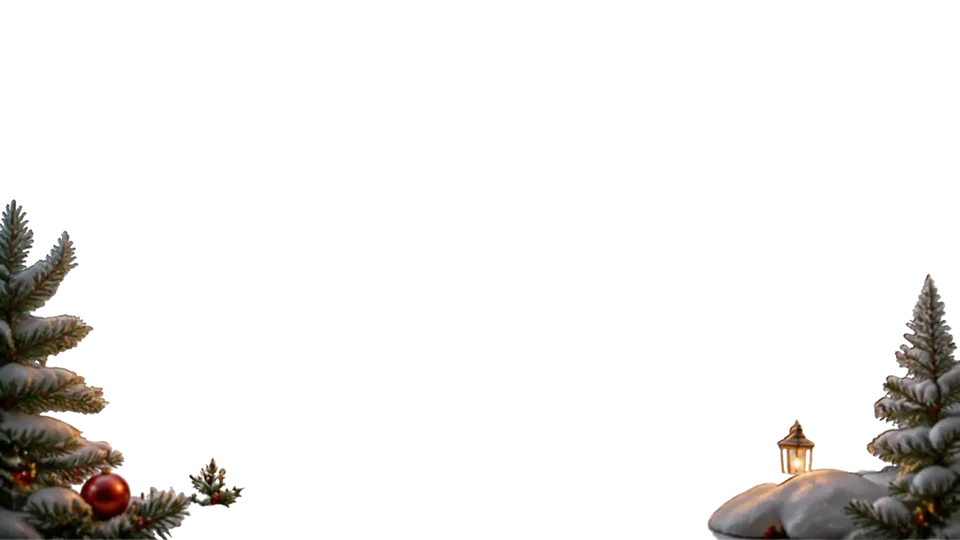
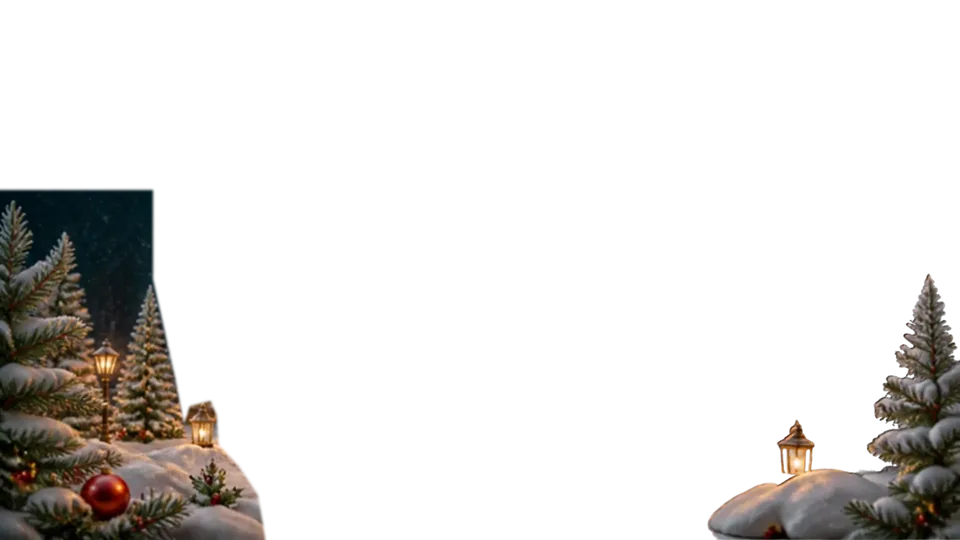
Julekontor: van emerges at the marked line, sign lettering, new corners and ornaments
- foreground mask follows the line the user drew (trees, lantern, small fir)
- shop sign shows the red Julekontor lettering from the logo
- new holly corners generated in Canva after the logo's corners
- tree ornaments and calendar icons are Canva images instead of drawn icons

Claude-Session: https://claude.ai/code/session_01GyBEJ1bpVKmuYRXiFEBJUP

Changed region(s): [[0.0, 0.3259, 0.2812, 1.0], [0.0625, 0.8889, 0.0938, 0.9185]]

diff --git a/julekontor-web/public/index.html b/julekontor-web/public/index.html
@@ -57,7 +57,7 @@ a { color: inherit; }
 
 /* the logo's holly corners on framed boards */
 .board { position: relative; background: var(--card); border-radius: 18px; padding: clamp(26px, 4vw, 54px) clamp(16px, 3.5vw, 48px); box-shadow: 0 0 0 1px var(--line), 0 0 0 7px var(--card), 0 0 0 8px var(--gold-soft), 0 30px 60px -36px rgba(80,40,10,.5); }
-.board > .corner { position: absolute; width: clamp(96px, 14vw, 170px); aspect-ratio: 375 / 360; background-size: contain; background-repeat: no-repeat; pointer-events: none; z-index: 1; filter: drop-shadow(0 4px 6px rgba(0,0,0,.18)); }
+.board > .corner { position: absolute; width: clamp(120px, 17vw, 230px); aspect-ratio: 520 / 488; background-size: contain; background-repeat: no-repeat; pointer-events: none; z-index: 1; filter: drop-shadow(0 4px 6px rgba(0,0,0,.2)); }
 .corner.tl { left: -14px; top: -14px; background-image: url("img/c/corner-tl.webp"); }
 .corner.tr { right: -14px; top: -14px; background-image: url("img/c/corner-tr.webp"); }
 .corner.bl { left: -14px; bottom: -14px; background-image: url("img/c/corner-bl.webp"); }
@@ -333,6 +333,13 @@ body { background: var(--night-1); color: var(--ink);
 .stage > img.bg { position: absolute; inset: 0; width: 100%; height: 100%; display: block; user-select: none; }
 .stage canvas { position: absolute; inset: 0; width: 100%; height: 100%; pointer-events: none; z-index: 3; }
 .stage::after { content: ""; position: absolute; inset: 0; z-index: 2; pointer-events: none; background: linear-gradient(180deg, rgba(8,18,16,.75) 0, rgba(8,18,16,.25) 22%, transparent 40%), radial-gradient(ellipse at 50% 120%, transparent 60%, rgba(0,0,0,.35)); }
+.stage > img.shopsign { position: absolute; left: 61.6%; top: 46.4%; width: 8.6%; height: 4.4%; object-fit: contain; z-index: 1; pointer-events: none; filter: drop-shadow(0 0 1px rgba(255,236,200,.95)) drop-shadow(0 0 .4cqw rgba(255,205,120,.55)); }
+.door .back img { width: 58%; height: 70%; object-fit: contain; display: block; }
+.dlg .card .art img { width: 110px; height: 120px; object-fit: contain; display: block; }
+.tree .placed img { width: 100%; height: 100%; object-fit: contain; display: block; filter: drop-shadow(0 4px 3px rgba(0,0,0,.35)); pointer-events: none; }
+.tray .items img { width: 100%; height: 100%; object-fit: contain; display: block; pointer-events: none; }
+.dragging img { width: 100%; height: 100%; object-fit: contain; display: block; }
+.tree .placed { width: 9%; aspect-ratio: 3 / 4; margin: -6% 0 0 -4.5%; }
 .stage > img.fg { position: absolute; inset: 0; width: 100%; height: 100%; display: block; z-index: 3; pointer-events: none; user-select: none; }
 .stage canvas { z-index: 4; }
 .van .wheel { position: absolute; aspect-ratio: 1; pointer-events: none; }
@@ -529,6 +536,7 @@ footer::before { background: radial-gradient(circle at 12px 24px, var(--red-deep
   <section class="hero" aria-label="Julekontor – Danmarks gammeldags julebutik">
     <div class="stage" id="scene" role="img" aria-label="Julekontor – Danmarks gammeldags julebutik. Den røde varevogn kører gennem sneen og parkerer foran butikken.">
       <img class="bg" src="img/c/scene.webp" srcset="img/c/scene-960.webp 960w, img/c/scene.webp 1920w" sizes="(max-width: 700px) 1100px, 100vw" width="1920" height="1080" alt="" fetchpriority="high">
+      <img class="shopsign" src="img/c/signword.webp" width="1053" height="454" alt="">
       <span class="win w1"></span><span class="win w2"></span><span class="win w3"></span>
       <div class="van" id="van">
         <img src="img/c/truck.webp" width="900" height="668" alt="">
@@ -999,7 +1007,9 @@ footer::before { background: radial-gradient(circle at 12px 24px, var(--red-deep
   const ICONS = ["orn-star", "orn-ball:o-red", "orn-heart", "orn-candle", "orn-nisse", "orn-ball:o-gold", "orn-cone", "orn-ball:o-green", "orn-star", "orn-ball:o-blue", "orn-cone", "orn-heart"];
   const ORDER = [7, 15, 1, 22, 10, 18, 3, 12, 20, 5, 24, 9, 14, 2, 17, 11, 21, 6, 13, 19, 4, 23, 8, 16];
   const opened = new Set(JSON.parse(store.get("jk-cal") || "[]"));
-  const iconSvg = k => { const [id, fill] = k.split(":"); return `<svg viewBox="0 0 40 40"${fill ? ` fill="url(#${fill})"` : ""}><use href="#${id}"/></svg>`; };
+  // ornaments made in Canva; the keys stay the same so saved trees and calendars keep working
+  const ORN_IMG = { "orn-ball:o-red": "ball-red", "orn-ball:o-gold": "ball-gold", "orn-ball:o-green": "ball-green", "orn-ball:o-blue": "ball-blue", "orn-heart": "heart", "orn-candle": "candle", "orn-cone": "cone", "orn-nisse": "nisse", "orn-star": "star" };
+  const iconSvg = k => `<img src="img/c/orn-${ORN_IMG[k] || "star"}.webp" alt="" draggable="false">`;
   function canOpen(d) { const n = new Date(); return n.getMonth() === 11 && n.getDate() >= d || (n.getMonth() === 0 && n.getDate() <= 6); }
   function buildCal() {
     const cal = $("cal"); cal.innerHTML = ""; const n = new Date();

diff --git a/julekontor-web/src/page.html b/julekontor-web/src/page.html
@@ -51,7 +51,7 @@ a { color: inherit; }
 
 /* the logo's holly corners on framed boards */
 .board { position: relative; background: var(--card); border-radius: 18px; padding: clamp(26px, 4vw, 54px) clamp(16px, 3.5vw, 48px); box-shadow: 0 0 0 1px var(--line), 0 0 0 7px var(--card), 0 0 0 8px var(--gold-soft), 0 30px 60px -36px rgba(80,40,10,.5); }
-.board > .corner { position: absolute; width: clamp(96px, 14vw, 170px); aspect-ratio: 375 / 360; background-size: contain; background-repeat: no-repeat; pointer-events: none; z-index: 1; filter: drop-shadow(0 4px 6px rgba(0,0,0,.18)); }
+.board > .corner { position: absolute; width: clamp(120px, 17vw, 230px); aspect-ratio: 520 / 488; background-size: contain; background-repeat: no-repeat; pointer-events: none; z-index: 1; filter: drop-shadow(0 4px 6px rgba(0,0,0,.2)); }
 .corner.tl { left: -14px; top: -14px; background-image: url("img/c/corner-tl.webp"); }
 .corner.tr { right: -14px; top: -14px; background-image: url("img/c/corner-tr.webp"); }
 .corner.bl { left: -14px; bottom: -14px; background-image: url("img/c/corner-bl.webp"); }
@@ -327,6 +327,13 @@ body { background: var(--night-1); color: var(--ink);
 .stage > img.bg { position: absolute; inset: 0; width: 100%; height: 100%; display: block; user-select: none; }
 .stage canvas { position: absolute; inset: 0; width: 100%; height: 100%; pointer-events: none; z-index: 3; }
 .stage::after { content: ""; position: absolute; inset: 0; z-index: 2; pointer-events: none; background: linear-gradient(180deg, rgba(8,18,16,.75) 0, rgba(8,18,16,.25) 22%, transparent 40%), radial-gradient(ellipse at 50% 120%, transparent 60%, rgba(0,0,0,.35)); }
+.stage > img.shopsign { position: absolute; left: 61.6%; top: 46.4%; width: 8.6%; height: 4.4%; object-fit: contain; z-index: 1; pointer-events: none; filter: drop-shadow(0 0 1px rgba(255,236,200,.95)) drop-shadow(0 0 .4cqw rgba(255,205,120,.55)); }
+.door .back img { width: 58%; height: 70%; object-fit: contain; display: block; }
+.dlg .card .art img { width: 110px; height: 120px; object-fit: contain; display: block; }
+.tree .placed img { width: 100%; height: 100%; object-fit: contain; display: block; filter: drop-shadow(0 4px 3px rgba(0,0,0,.35)); pointer-events: none; }
+.tray .items img { width: 100%; height: 100%; object-fit: contain; display: block; pointer-events: none; }
+.dragging img { width: 100%; height: 100%; object-fit: contain; display: block; }
+.tree .placed { width: 9%; aspect-ratio: 3 / 4; margin: -6% 0 0 -4.5%; }
 .stage > img.fg { position: absolute; inset: 0; width: 100%; height: 100%; display: block; z-index: 3; pointer-events: none; user-select: none; }
 .stage canvas { z-index: 4; }
 .van .wheel { position: absolute; aspect-ratio: 1; pointer-events: none; }
@@ -520,6 +527,7 @@ footer::before { background: radial-gradient(circle at 12px 24px, var(--red-deep
   <section class="hero" aria-label="Julekontor – Danmarks gammeldags julebutik">
     <div class="stage" id="scene" role="img" aria-label="Julekontor – Danmarks gammeldags julebutik. Den røde varevogn kører gennem sneen og parkerer foran butikken.">
       <img class="bg" src="img/c/scene.webp" srcset="img/c/scene-960.webp 960w, img/c/scene.webp 1920w" sizes="(max-width: 700px) 1100px, 100vw" width="1920" height="1080" alt="" fetchpriority="high">
+      <img class="shopsign" src="img/c/signword.webp" width="1053" height="454" alt="">
       <span class="win w1"></span><span class="win w2"></span><span class="win w3"></span>
       <div class="van" id="van">
         <img src="img/c/truck.webp" width="900" height="668" alt="">
@@ -990,7 +998,9 @@ footer::before { background: radial-gradient(circle at 12px 24px, var(--red-deep
   const ICONS = ["orn-star", "orn-ball:o-red", "orn-heart", "orn-candle", "orn-nisse", "orn-ball:o-gold", "orn-cone", "orn-ball:o-green", "orn-star", "orn-ball:o-blue", "orn-cone", "orn-heart"];
   const ORDER = [7, 15, 1, 22, 10, 18, 3, 12, 20, 5, 24, 9, 14, 2, 17, 11, 21, 6, 13, 19, 4, 23, 8, 16];
   const opened = new Set(JSON.parse(store.get("jk-cal") || "[]"));
-  const iconSvg = k => { const [id, fill] = k.split(":"); return `<svg viewBox="0 0 40 40"${fill ? ` fill="url(#${fill})"` : ""}><use href="#${id}"/></svg>`; };
+  // ornaments made in Canva; the keys stay the same so saved trees and calendars keep working
+  const ORN_IMG = { "orn-ball:o-red": "ball-red", "orn-ball:o-gold": "ball-gold", "orn-ball:o-green": "ball-green", "orn-ball:o-blue": "ball-blue", "orn-heart": "heart", "orn-candle": "candle", "orn-cone": "cone", "orn-nisse": "nisse", "orn-star": "star" };
+  const iconSvg = k => `<img src="img/c/orn-${ORN_IMG[k] || "star"}.webp" alt="" draggable="false">`;
   function canOpen(d) { const n = new Date(); return n.getMonth() === 11 && n.getDate() >= d || (n.getMonth() === 0 && n.getDate() <= 6); }
   function buildCal() {
     const cal = $("cal"); cal.innerHTML = ""; const n = new Date();
